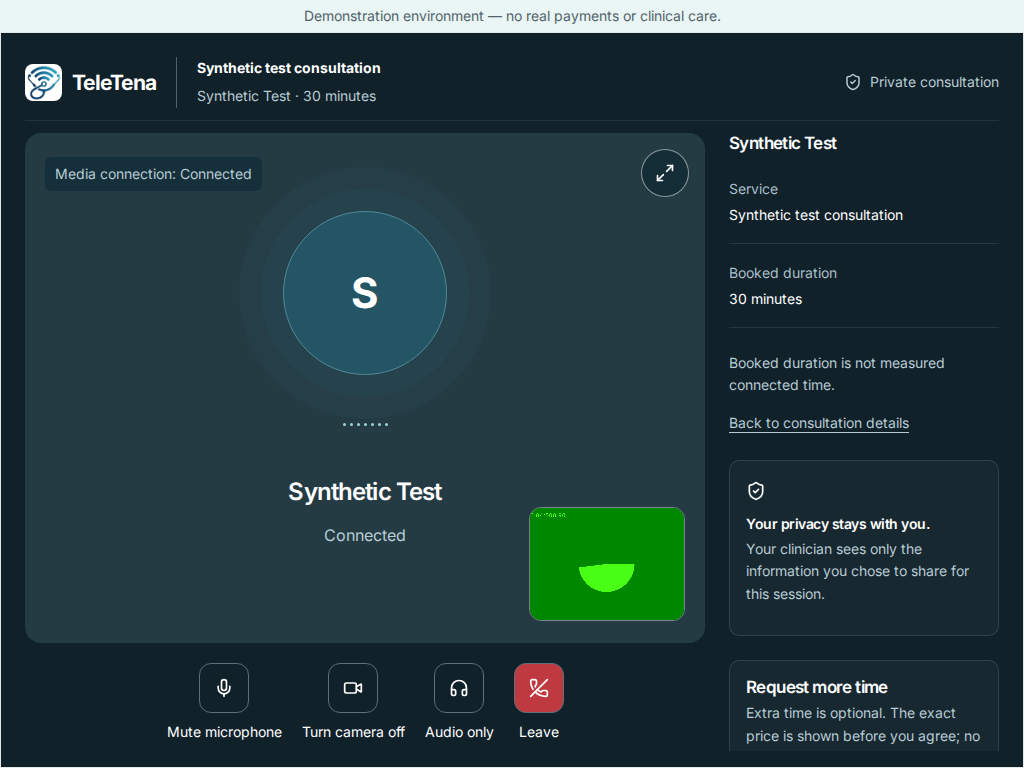
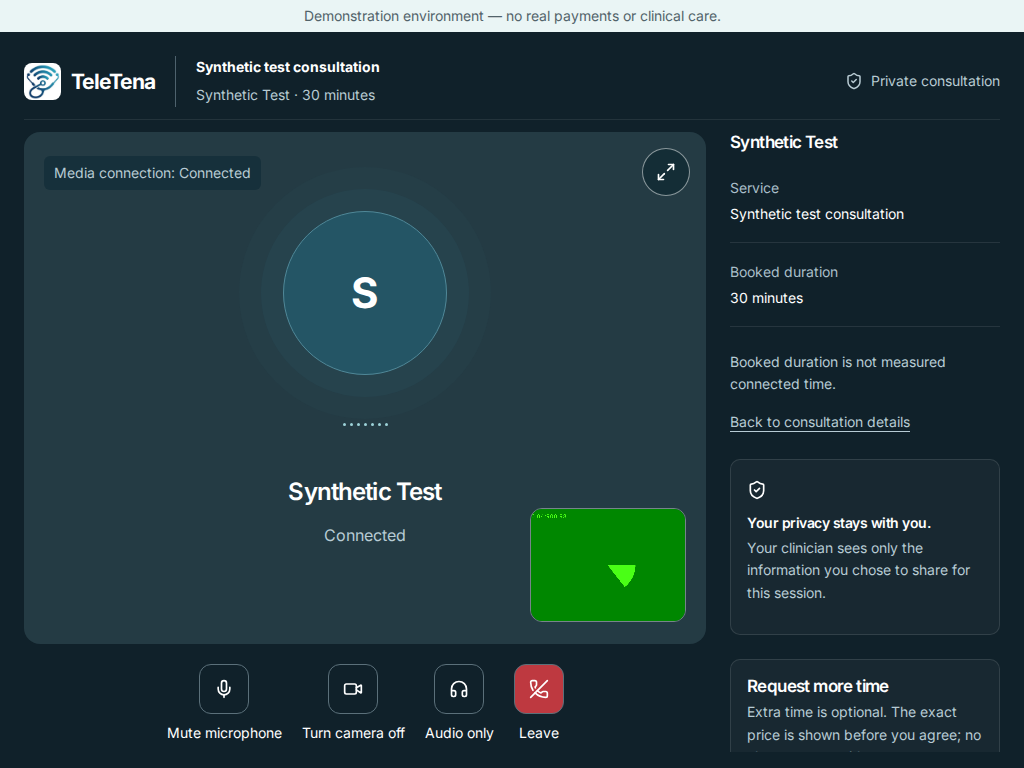
docs(mvp): pin final viewport package and focused passing evidence

diff --git a/docs/mvp-journey-verification-2026-10-09.md b/docs/mvp-journey-verification-2026-10-09.md
@@ -10,7 +10,7 @@ screen/completion matrix; the sections below this active checkpoint are historic
   **teletena-mvp-presentation.localhost**; Bench **/home/frappe/frappe/frappe-bench**,
   WSL **Ubuntu-24.04**. The compatibility Bench is not serving this preview.
 - Branch **feat/mvp-release-handover**; packaged runtime source
-  **2784701dd09774d528322993aa485cccda9d0222**. Later test/report/evidence-only commits
+  **42cb041818613aa87dbe5d7a9aceefd23f32297d**. Later test/report/evidence-only commits
   must have an empty frontend/backend runtime diff from this build.
 - Production package, no Vite. Status verifies owned web/scheduler/worker PIDs,
   working directories, selected site and served asset identity. Web at8017,
@@ -23,7 +23,7 @@ screen/completion matrix; the sections below this active checkpoint are historic
 
 ## Accepted-offer notification and desktop call delta —12October
 
-Runtime/build2784701dd09774d528322993aa485cccda9d0222, stable8017 presentation
+Runtime/build42cb041818613aa87dbe5d7a9aceefd23f32297d, stable8017 presentation
 preview. Later commits change test harnesses or evidence only. PR44 remains draft.
 
 - An immediate-presence heartbeat revalidates continuous free time. If a new
@@ -59,11 +59,12 @@ Checks actually run:
 - `check_accepted_offer_notification.py` passed on the isolatedpr12 site: two real
   signed-in browser contexts, patient accepts an offer, clinician Account receives
   popup without refresh, consultation navigation, server-persisted read after
-  reload and accepted offer history link. Additional capacity-error UI assertion
+  reload and accepted offer history link (package2784701, unchanged except one
+  call CSS border rule in42cb041). Additional capacity-error UI assertion
   uses an explicitly identified fault-injected422response, not mocked booking
   success. Result/screenshot: `screenshots/accepted-offer-room-2026-10-12/`.
-- Production build/typecheck passed on2784701; lint previously passed on the same
-  feature with44warnings/no errors. Last runtime delta is one CSS border removal.
+- Production build/typecheck passed on42cb041; lint previously passed on the same
+  feature with44warnings/no errors. Final runtime delta removes the connected card border; prior notification/permission evidence remains applicable.
   Asset hash/scope/private credential leakage scan passed,7private values checked
   without printing any values. Existing previewHTTP200 and owned site/PIDs verified.
 - Focused hosted LiveKit Cloud fake-device two-context browser passed on the

diff --git a/docs/mvp-delivery-tracker.md b/docs/mvp-delivery-tracker.md
@@ -2,7 +2,7 @@
 
 ## Latest accepted-offer / room delta —12October2026
 
-Package2784701 at the stable8017 presentation preview. Cross-page clinician
+Package42cb041 at the stable8017 presentation preview. Cross-page clinician
 accepted-offer popup/inbox and private persisted read receipts passed a two-session
 real-backend browser. No-immediate-capacity is a paused readiness condition, not a
 setup failure. Desktop video/audio viewport work uses existing media/auth/End core.

diff --git a/docs/operational-progress-export.md b/docs/operational-progress-export.md
@@ -2,7 +2,7 @@
 
 ## Latest accepted-offer / room delta —12October2026
 
-Package2784701 at the stable8017 presentation preview. Cross-page clinician
+Package42cb041 at the stable8017 presentation preview. Cross-page clinician
 accepted-offer popup/inbox and private persisted read receipts passed a two-session
 real-backend browser. No-immediate-capacity is a paused readiness condition, not a
 setup failure. Desktop video/audio viewport work uses existing media/auth/End core.
